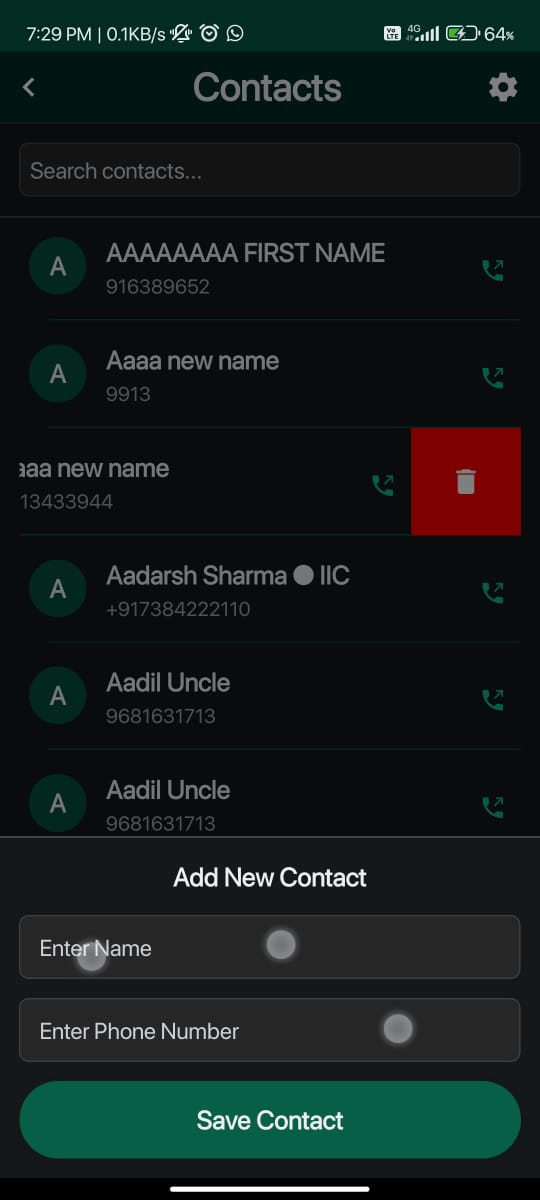
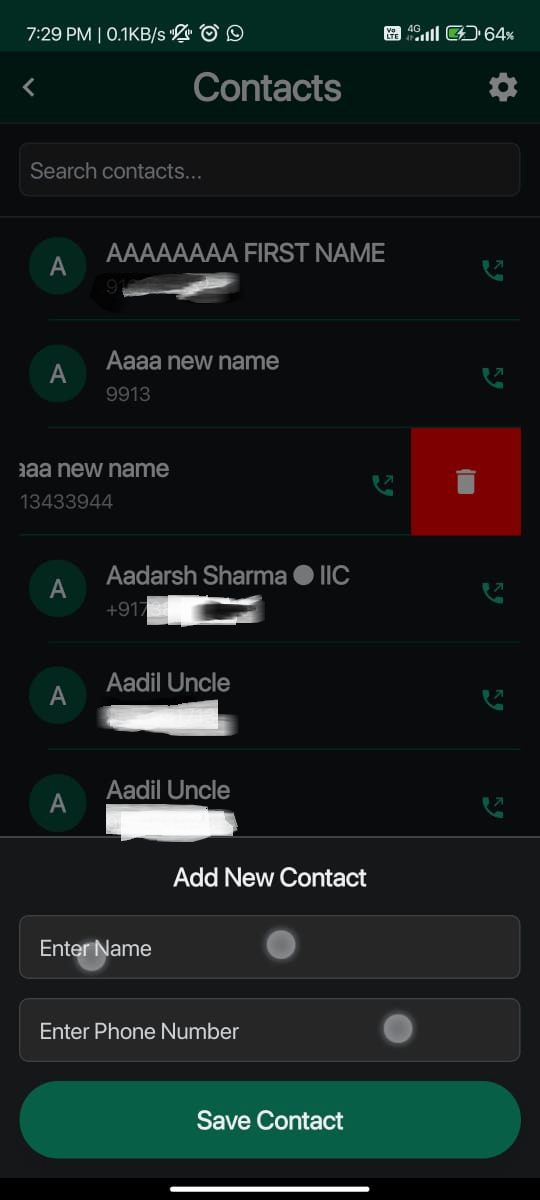
CHORE - hide sensitive imformations

diff --git a/README.md b/README.md
@@ -5,7 +5,7 @@
 ---
 ## Screenshots
 
-<div style="display: flex; justify-content: center; gap: 10px; flex-wrap: wrap;">
+<div style="display: flex; justify-content: center; gap: 10px; flex-wrap: wrap; border-radius:10px;">
 
   <img src="assets/images/1.png" width="200" />
   <img src="assets/images/2.png" width="200" />
